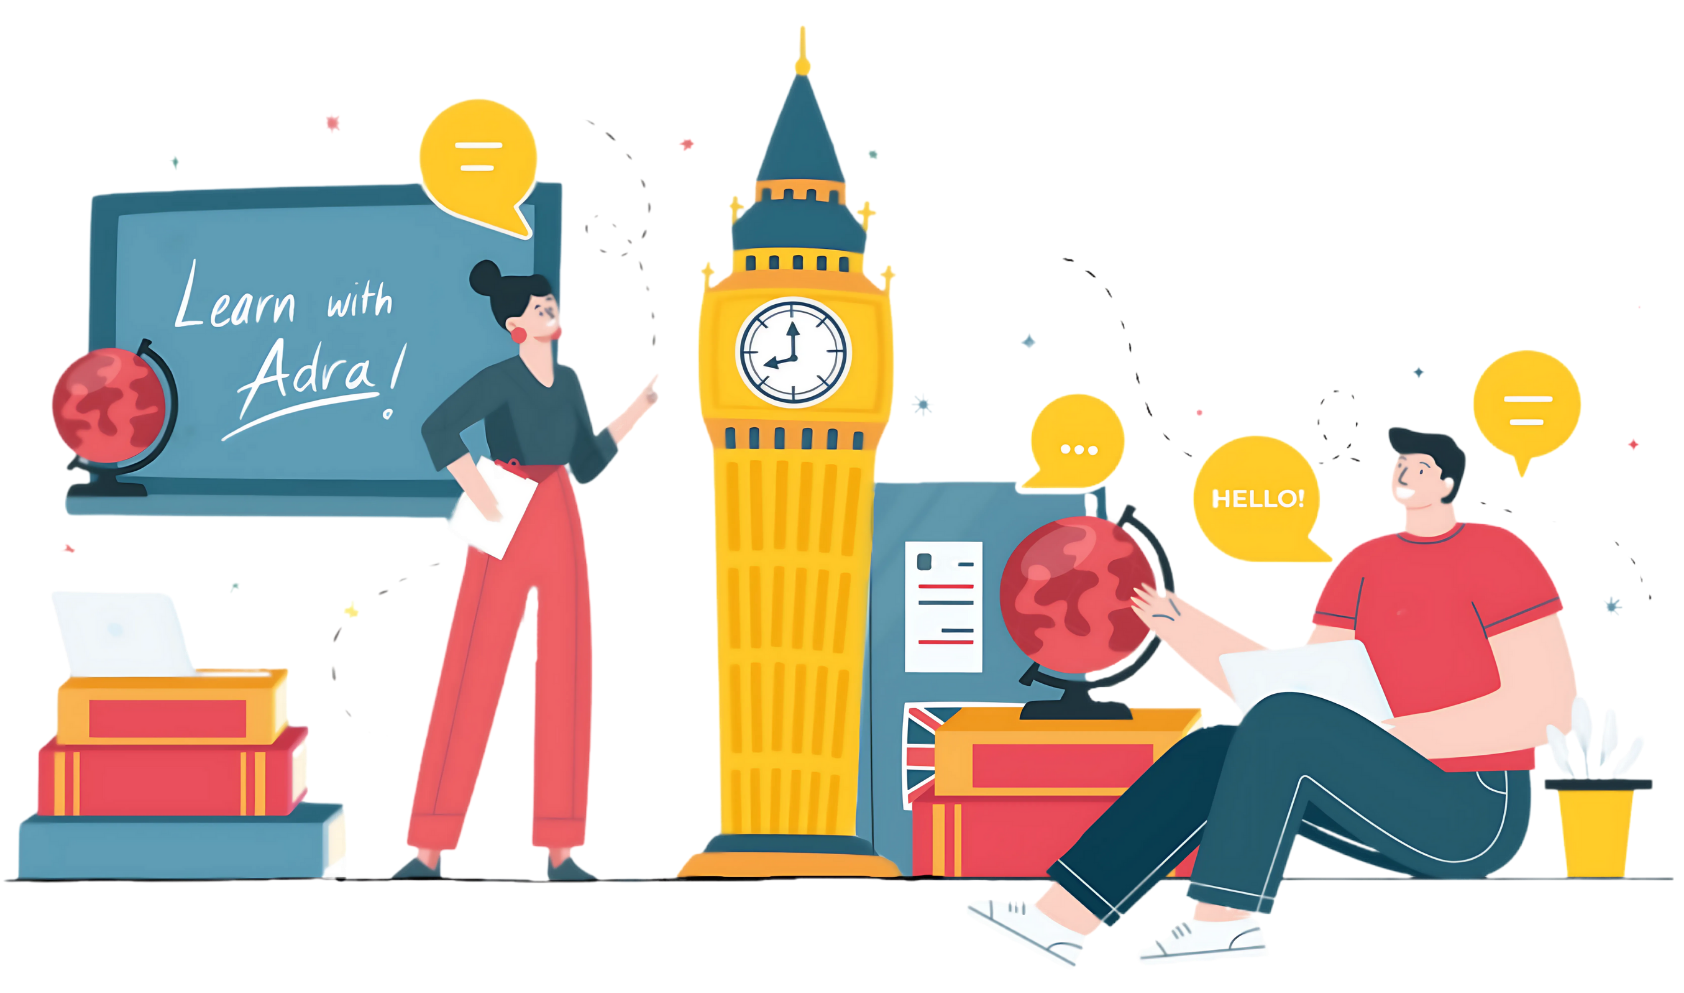
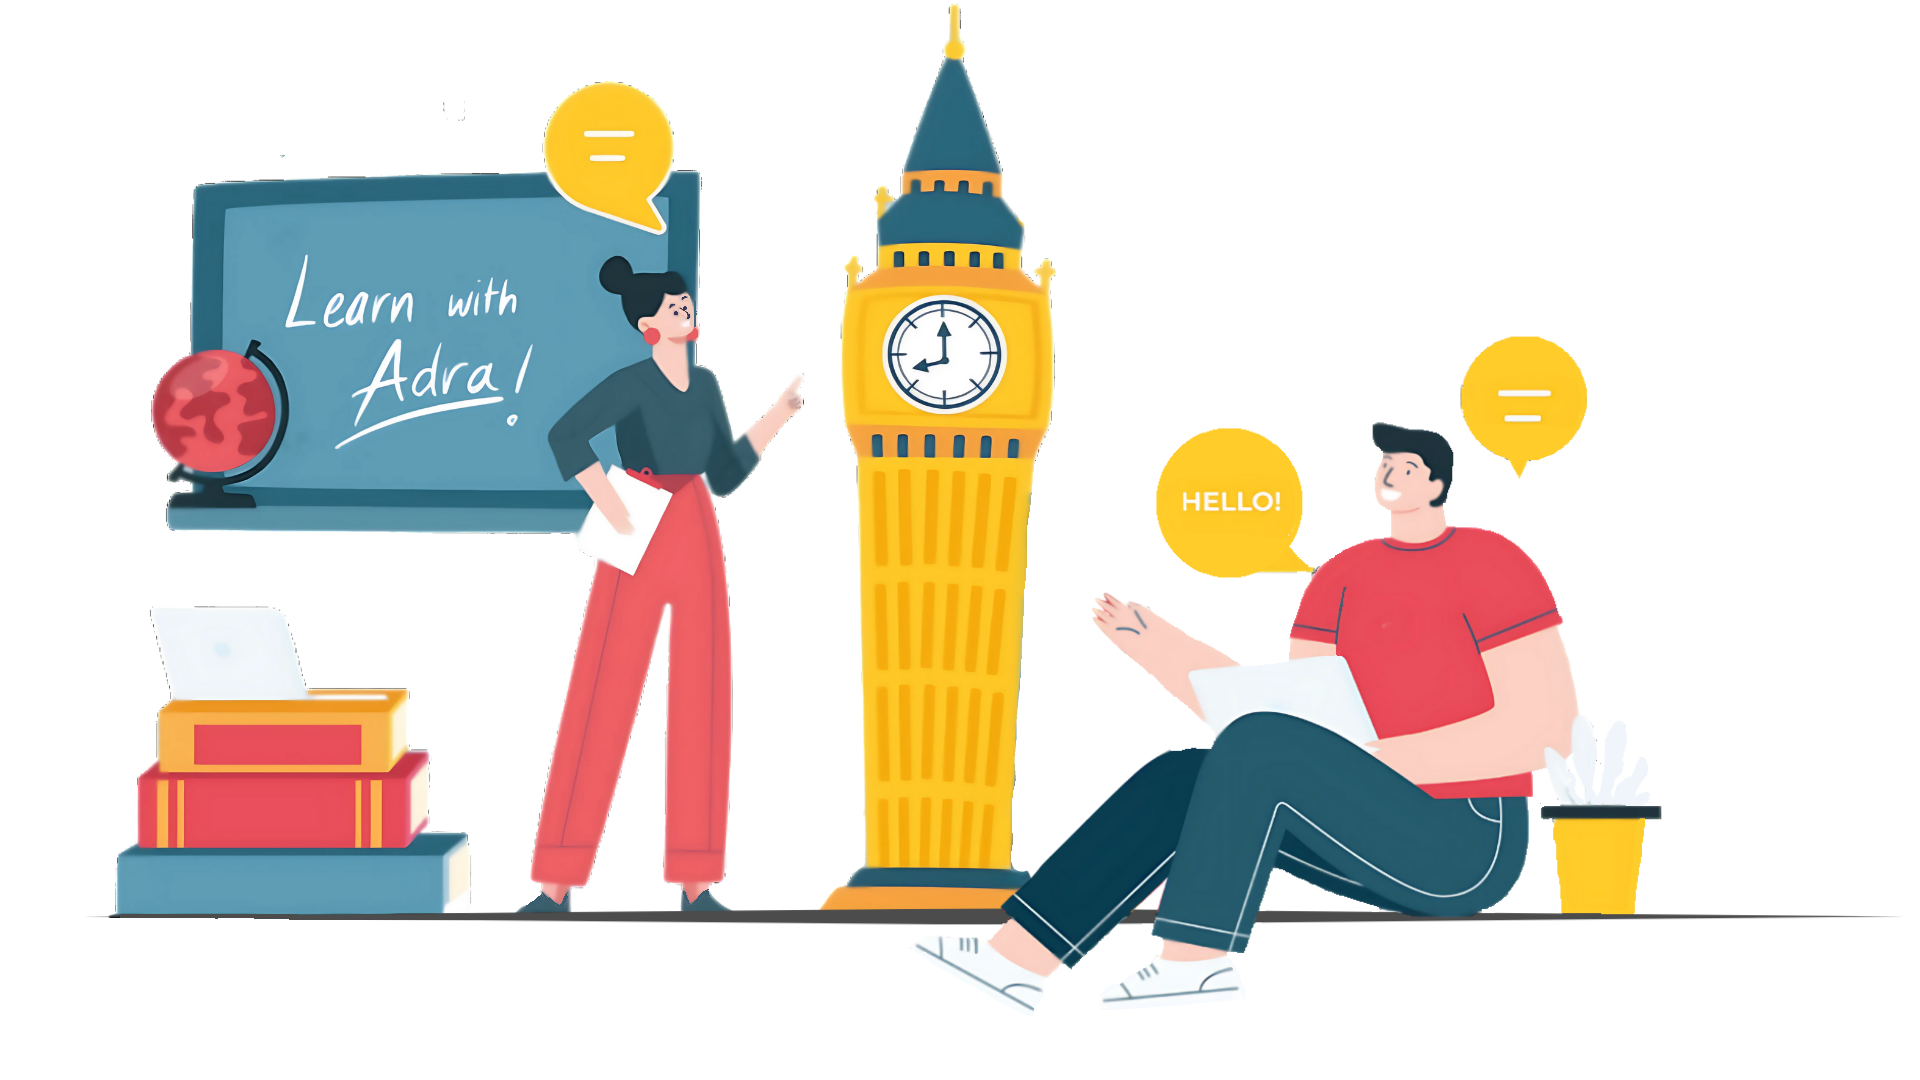
new header sticker visuals optimized

diff --git a/src/components/header/Headerr.jsx b/src/components/header/Headerr.jsx
@@ -5,7 +5,7 @@ import headerBackGreen from "/new-header-bg.jpg"
 import headerBackLeft from "/header-back-left.png"
 import headerMainImg from "/new-header-sticker.png"
 import headerMainImgWoman from "/new-header-sticker-woman.png"
-import headerBackgroundImg from "/header-background-sticker.png"
+import headerBackgroundImg from "/new-header-sticker.png"
 
 
 
